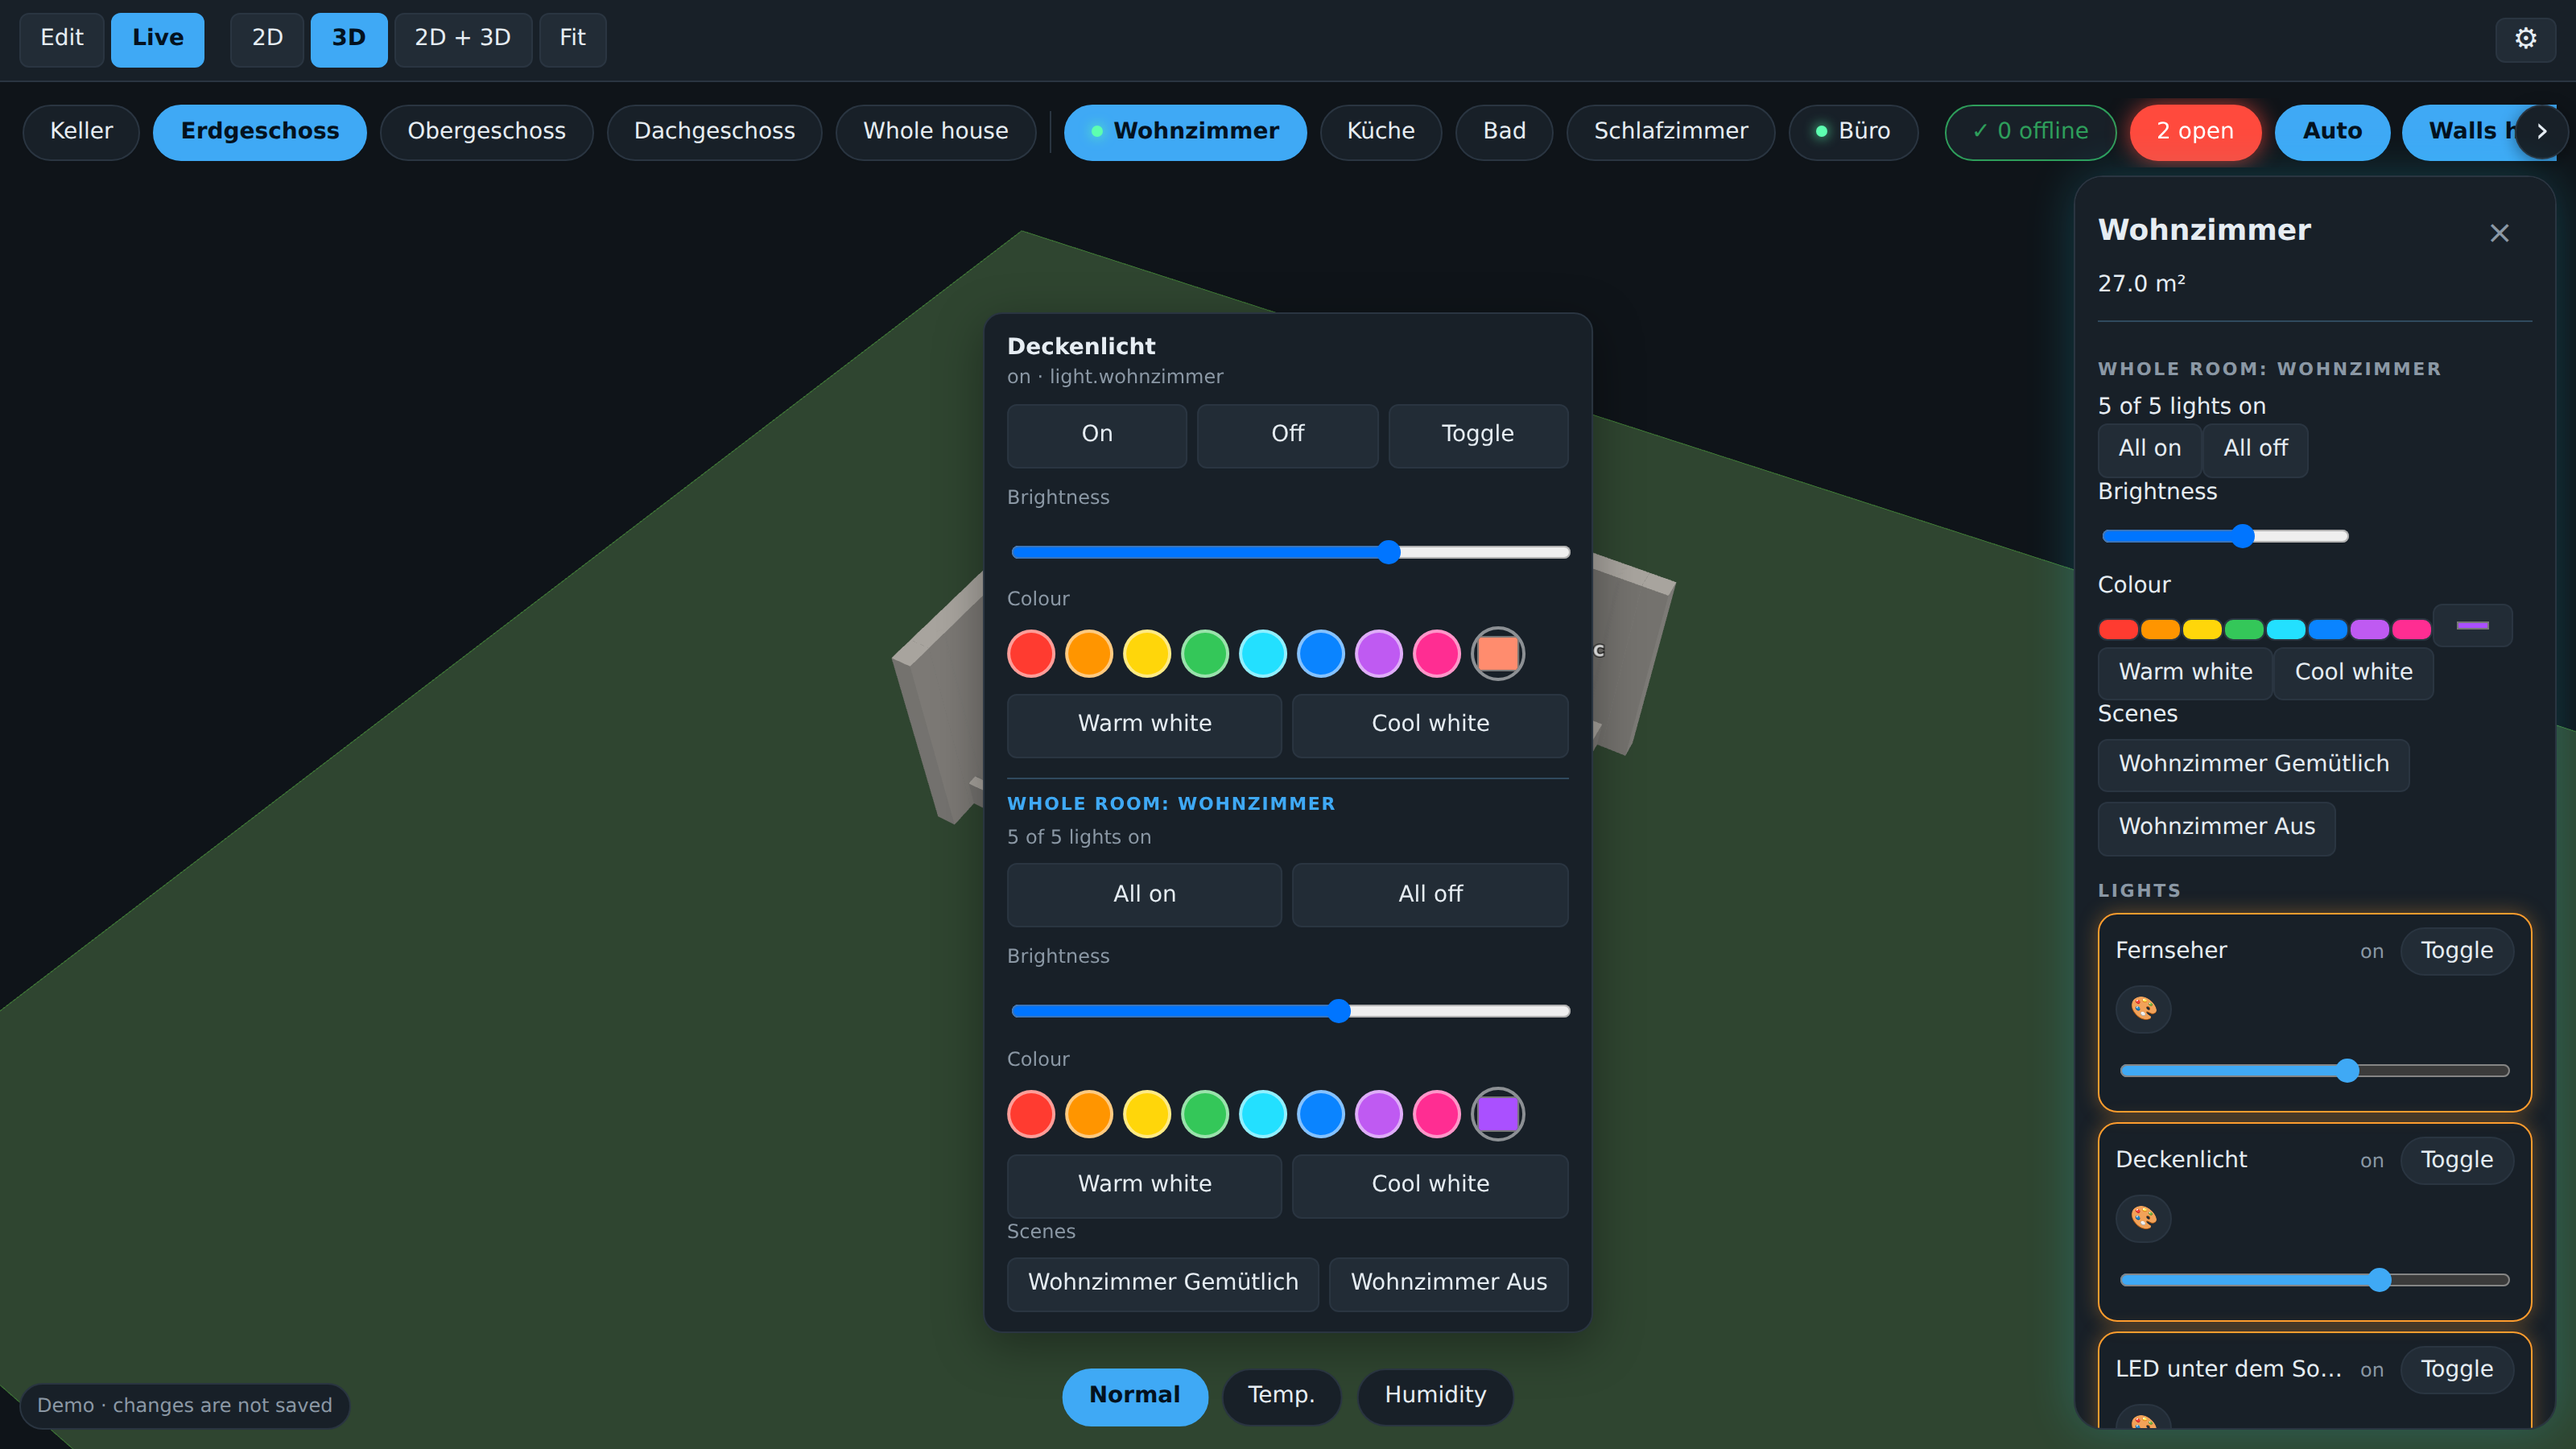
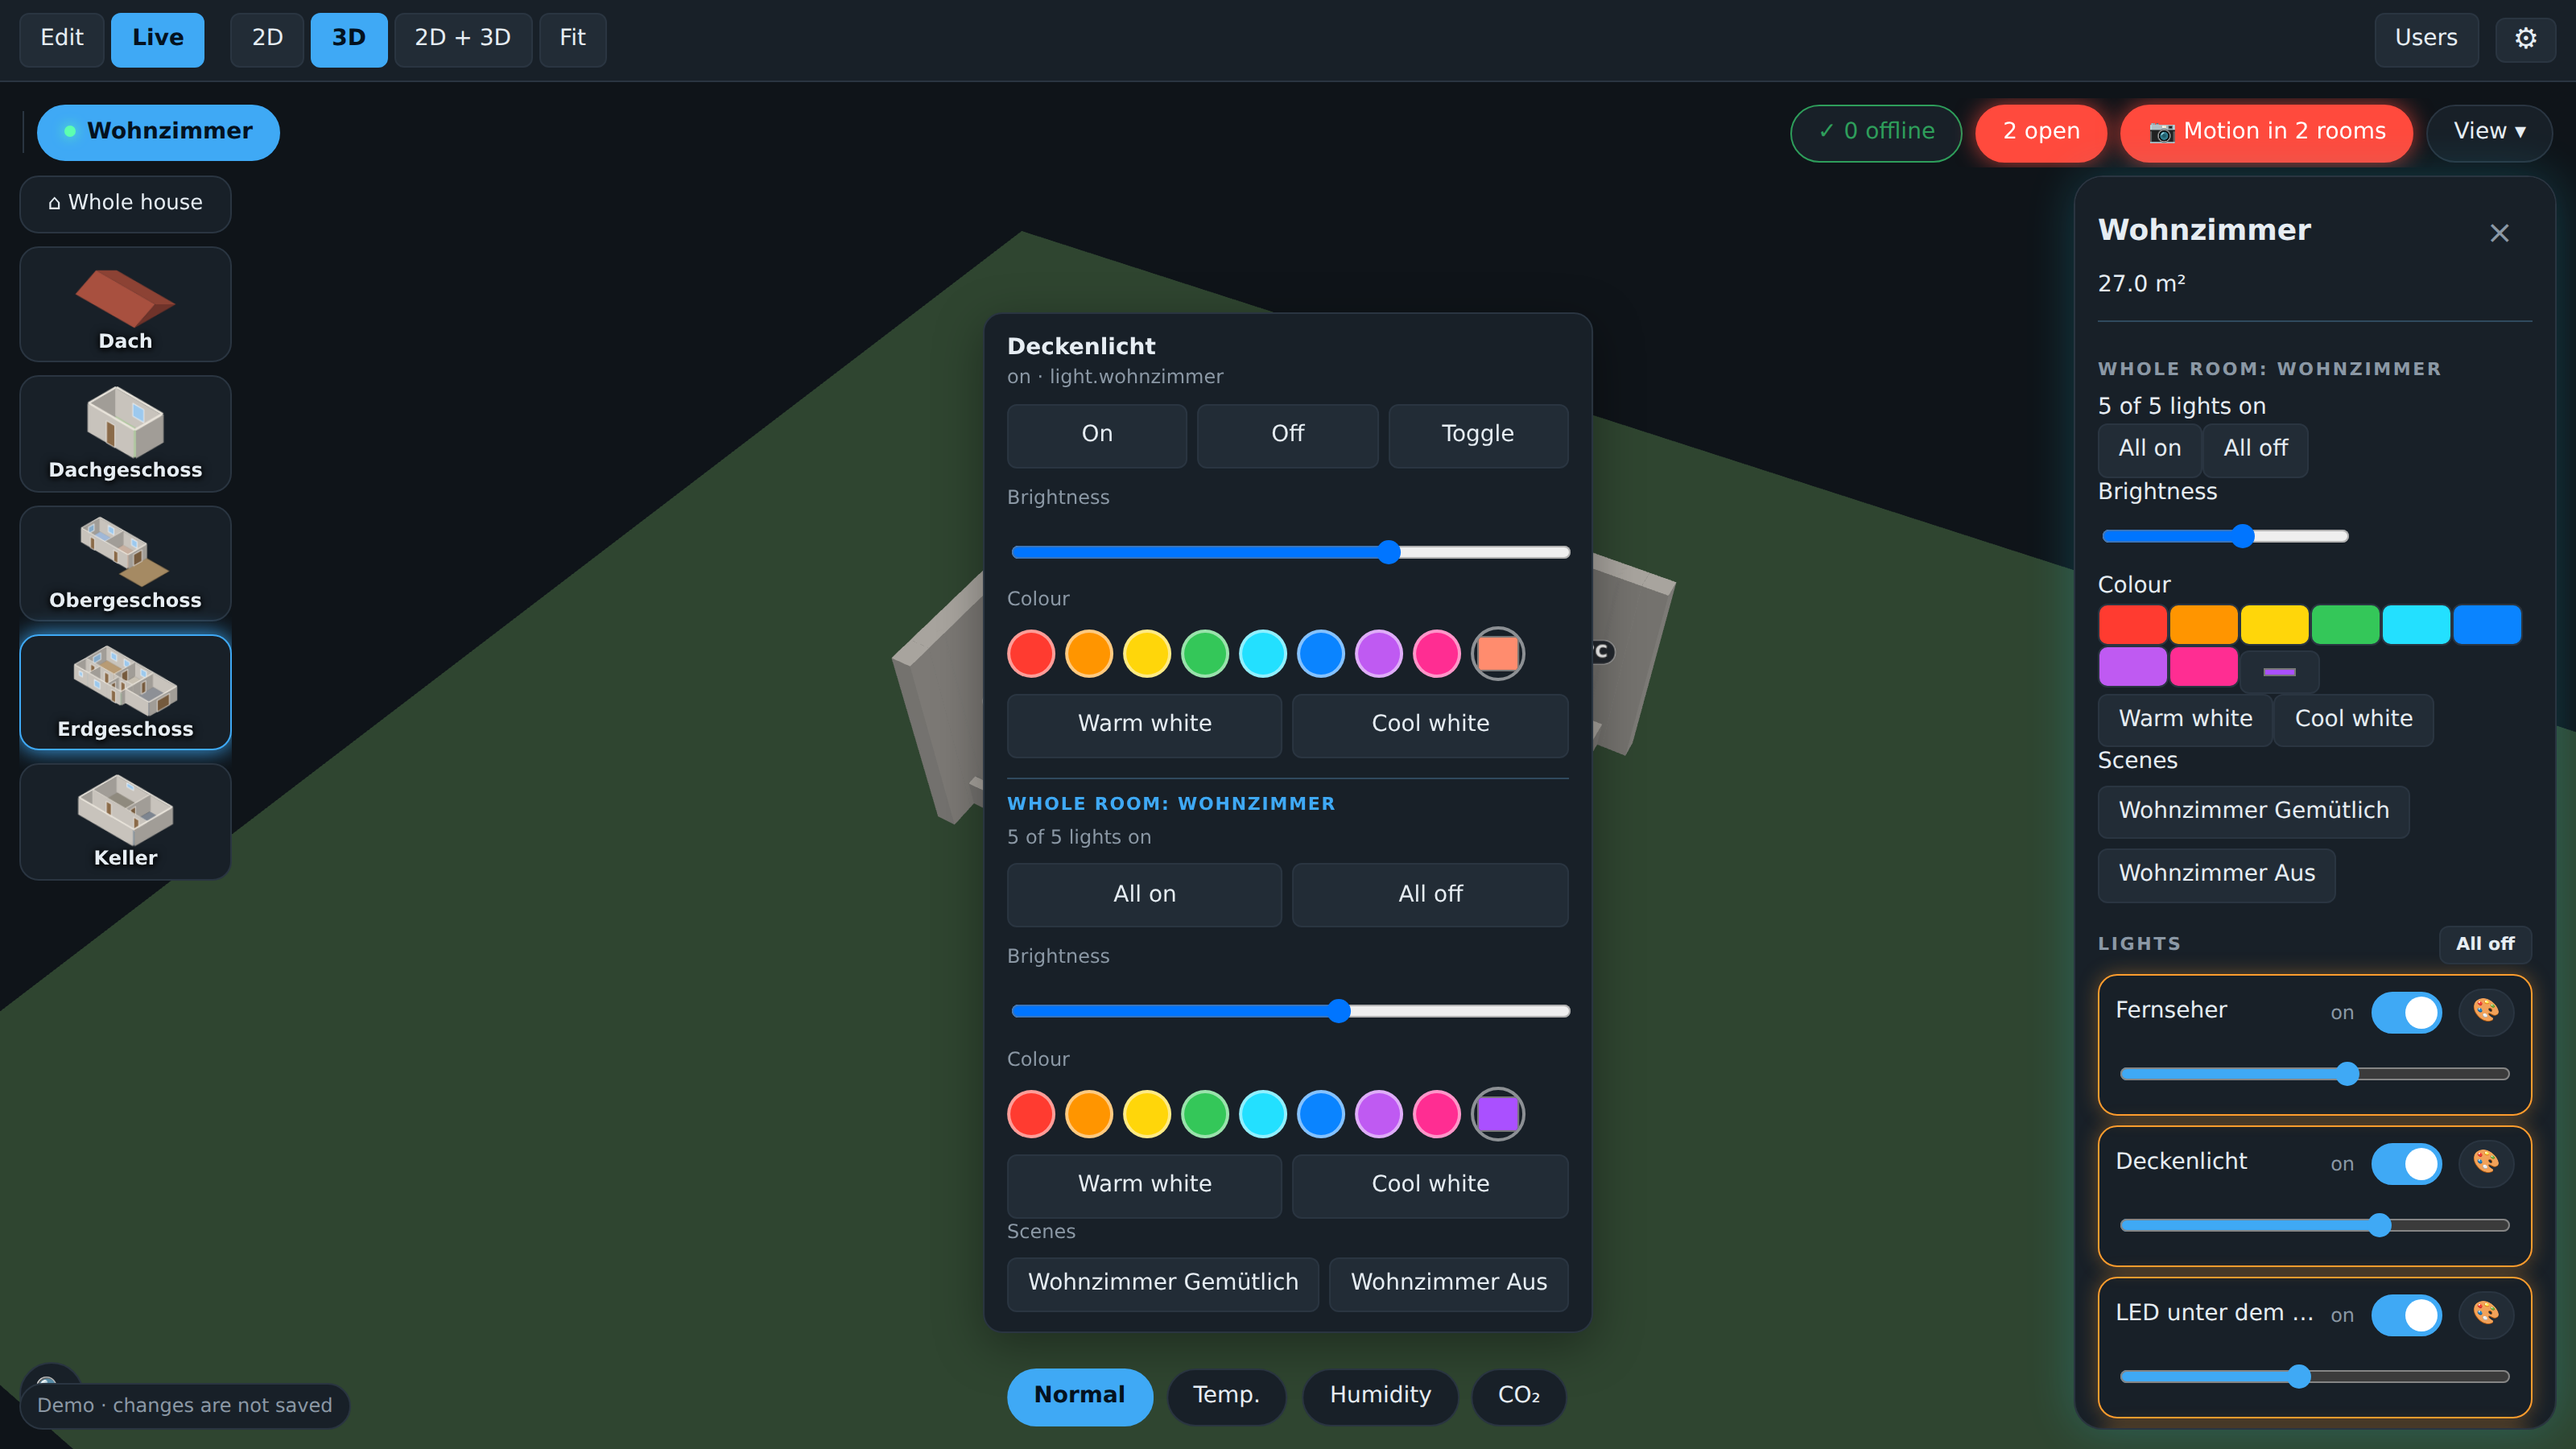
README: renew the remaining pictures and the tour GIF from the current demo
Claude-Session: https://claude.ai/code/session_019VzANRhrt1fvWFzA14v4U6

diff --git a/CHANGELOG.md b/CHANGELOG.md
@@ -9,7 +9,7 @@ All notable changes are documented here. The format follows [Keep a Changelog](h
 - **Users & tablets: button "Create / save file"**: writes `users.json` into the Home Assistant folder at once (and creates it if it is not there yet). Before, the file only appeared after the next save, and *Synchronise* then said "not found"; that message now explains what to press
 - After an update from an older version the add-on creates `users.json` by itself at start when users or tablets are already stored (it never overwrites an existing file)
 ### Changed
-- README pictures (3D, 2D, 2D + 3D, whole house) taken anew from the current demo: they show the floor rail, the *View* menu and the floors box in the plan
+- README pictures (3D, 2D, 2D + 3D, whole house, room, light, LED ring, ground, device library, import, the tour GIF) taken anew from the current demo: they show the floor rail, the *View* menu and the floors box in the plan
 
 ## [3.20.0] - 2026-10-02
 ### Added

diff --git a/floorplan3d/CHANGELOG.md b/floorplan3d/CHANGELOG.md
@@ -9,7 +9,7 @@ All notable changes are documented here. The format follows [Keep a Changelog](h
 - **Users & tablets: button "Create / save file"**: writes `users.json` into the Home Assistant folder at once (and creates it if it is not there yet). Before, the file only appeared after the next save, and *Synchronise* then said "not found"; that message now explains what to press
 - After an update from an older version the add-on creates `users.json` by itself at start when users or tablets are already stored (it never overwrites an existing file)
 ### Changed
-- README pictures (3D, 2D, 2D + 3D, whole house) taken anew from the current demo: they show the floor rail, the *View* menu and the floors box in the plan
+- README pictures (3D, 2D, 2D + 3D, whole house, room, light, LED ring, ground, device library, import, the tour GIF) taken anew from the current demo: they show the floor rail, the *View* menu and the floors box in the plan
 
 ## [3.20.0] - 2026-10-02
 ### Added
